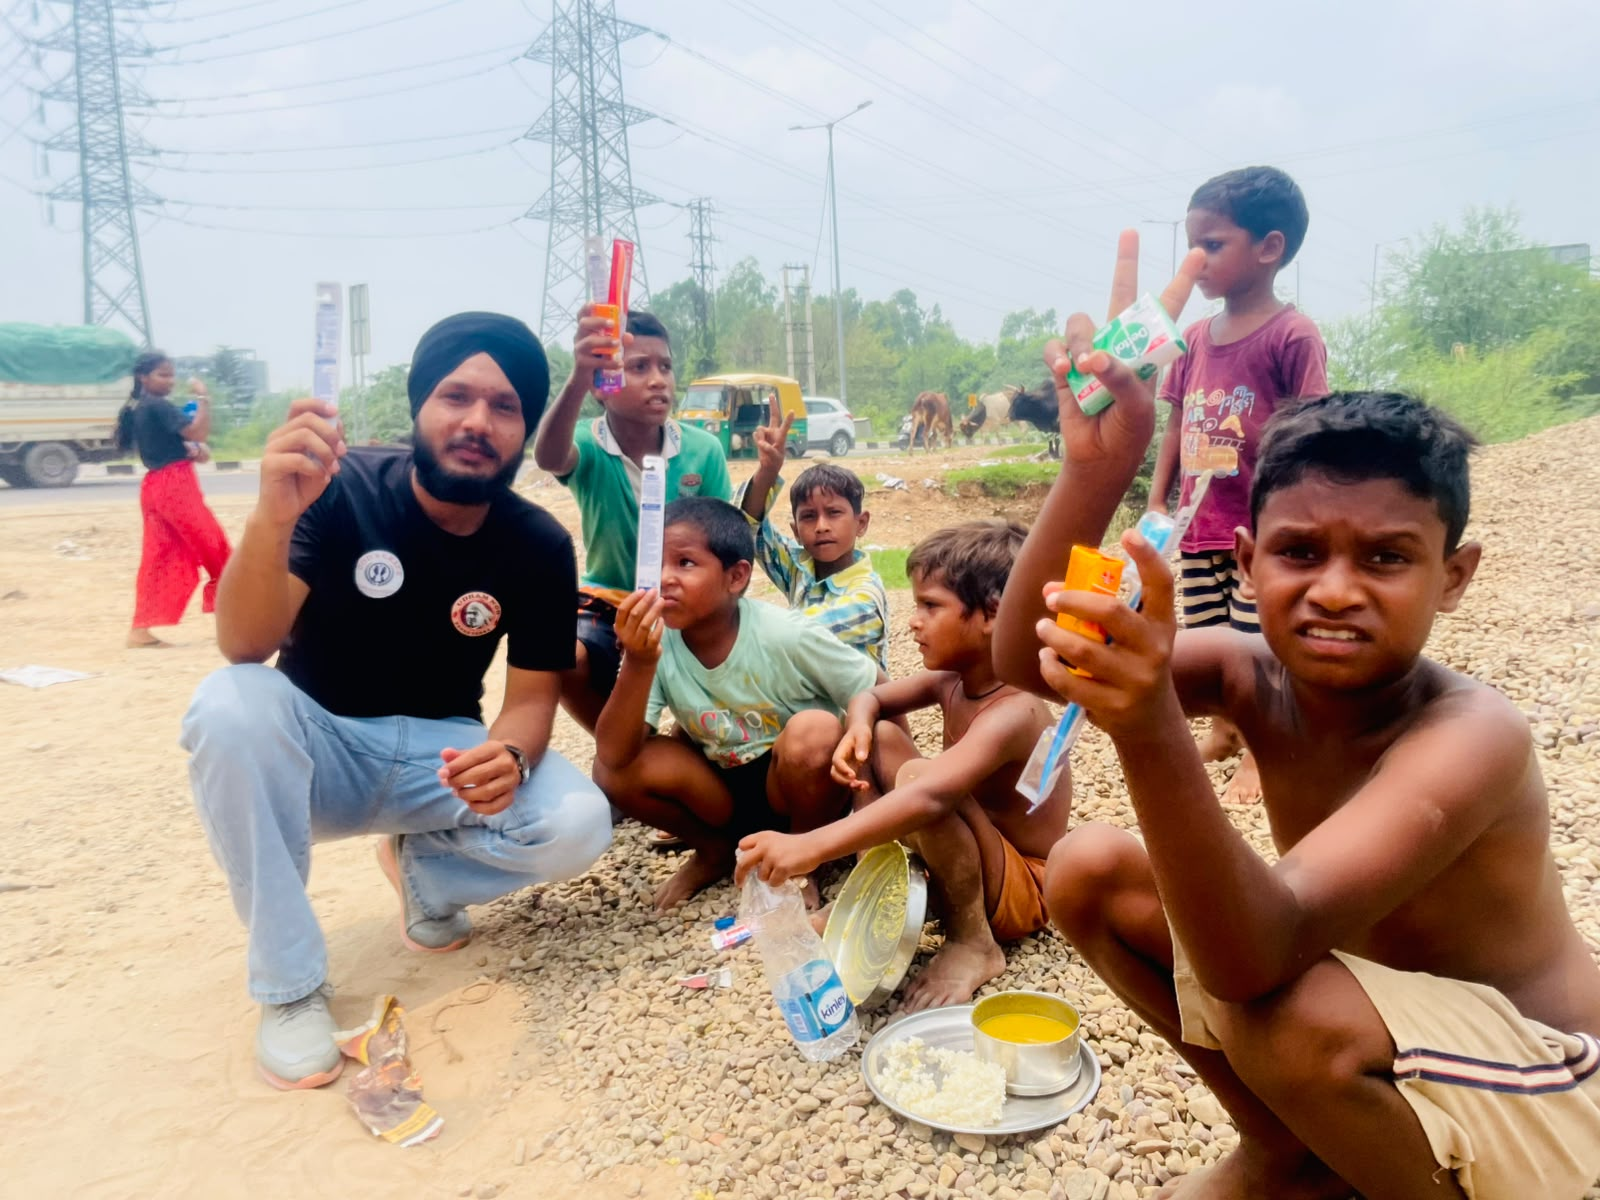
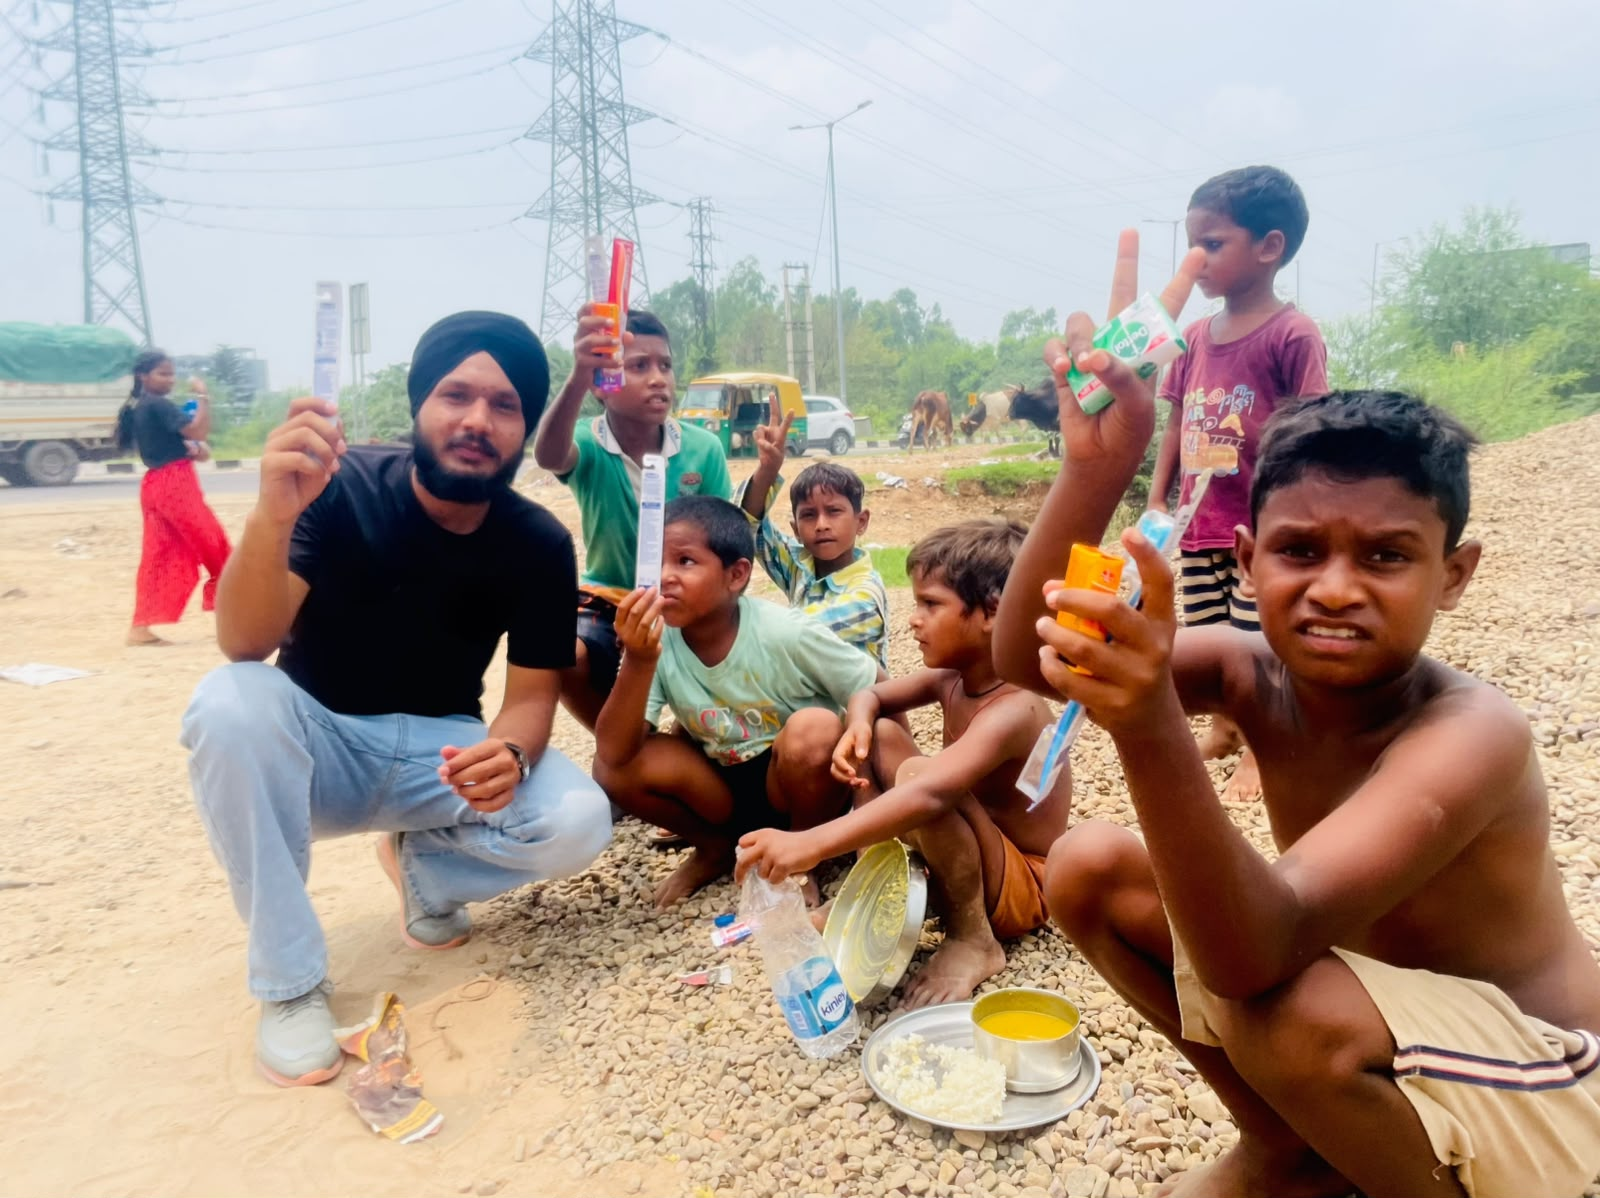
feat: update campaign images and remove Testimonials component

diff --git a/src/content/focus-areas.ts b/src/content/focus-areas.ts
@@ -11,7 +11,7 @@ export const focusAreas: FocusArea[] = [
     fullDescription:
       "Education is the most sustainable vehicle for breaking generational cycles of inequality. Waheguru Foundation supports underserved community schools through infrastructure rehabilitation, teacher honorariums, digital smart classrooms, and merit-cum-need scholarships for female students.",
     iconName: "GraduationCap",
-    image: "https://images.unsplash.com/photo-1509062522246-3755977927d7?auto=format&fit=crop&w=1200&q=80",
+    image: "/images/seva/students.png",
     stats: [
       { label: "Students Supported", value: "14,500+" },
       { label: "Community Schools", value: "48" },
@@ -33,7 +33,7 @@ export const focusAreas: FocusArea[] = [
     fullDescription:
       "Affordable quality healthcare is a fundamental human right. Our mobile healthcare initiative brings qualified medical teams, diagnostic equipment, and free essential medicines straight to rural doorsteps where tertiary healthcare facilities are days of travel away.",
     iconName: "Stethoscope",
-    image: "https://images.unsplash.com/photo-1584515979956-d9f6e5d09982?auto=format&fit=crop&w=1200&q=80",
+    image: "/images/seva/blood-camp.png",
     stats: [
       { label: "Patients Treated", value: "280,000+" },
       { label: "Mobile Clinics Active", value: "14" },
@@ -55,7 +55,7 @@ export const focusAreas: FocusArea[] = [
     fullDescription:
       "Rooted in the eternal concept of Pangat (eating together as equals without distinction of status or creed), our community kitchens prepare and serve over 10,000 freshly cooked, nutritionally balanced vegetarian meals every single day to construction workers, hospital attendees, and street dwellers.",
     iconName: "Utensils",
-    image: "https://images.unsplash.com/photo-1593113598332-cd288d649433?auto=format&fit=crop&w=1200&q=80",
+    image: "/images/seva/langar-seva.png",
     stats: [
       { label: "Total Meals Served", value: "3.8 Million+" },
       { label: "Daily Thalis Prepared", value: "12,000+" },
@@ -77,7 +77,7 @@ export const focusAreas: FocusArea[] = [
     fullDescription:
       "Pawan Guru, Pani Pita, Mata Dharat Mahat (Air is the Teacher, Water the Father, Earth the Great Mother). Inspired by these reverence-filled teachings, we restore degraded village ecosystems with clean solar water purification kiosks, rainwater percolation tanks, and Miyawaki indigenous urban mini-forests.",
     iconName: "Trees",
-    image: "https://images.unsplash.com/photo-1541888946425-d0fbb1861593?auto=format&fit=crop&w=1200&q=80",
+    image: "/images/seva/slum-langar-sanitation.png",
     stats: [
       { label: "Liters Filtered Daily", value: "120,000" },
       { label: "Native Trees Planted", value: "85,000+" },
@@ -99,7 +99,7 @@ export const focusAreas: FocusArea[] = [
     fullDescription:
       "When unforeseen disasters strike, time is of the essence. Waheguru Foundation maintains pre-staged emergency relief stocks of dry rations, water purification sachets, waterproof family tents, and medical emergency kits, with trained volunteer response units ready for 24-hour rapid mobilization.",
     iconName: "ShieldAlert",
-    image: "https://images.unsplash.com/photo-1469571486292-0ba58a3f068b?auto=format&fit=crop&w=1200&q=80",
+    image: "/images/seva/roadside-rescue.png",
     stats: [
       { label: "Disaster Responses", value: "32 Deployments" },
       { label: "Ration Kits Dispatched", value: "160,000+" },

diff --git a/src/app/(marketing)/campaigns/[slug]/page.tsx b/src/app/(marketing)/campaigns/[slug]/page.tsx
@@ -177,47 +177,7 @@ export default async function CampaignDetailPage({ params }: CampaignDetailPageP
             {/* Right Sticky Donate Box (4 cols) */}
             <div className="lg:col-span-4 lg:sticky lg:top-24 space-y-6">
               <div className="rounded-2xl bg-white border-2 border-[var(--gold-500)]/40 p-6 sm:p-8 shadow-xl space-y-6">
-                <div>
-                  <div className="flex items-baseline justify-between mb-2">
-                    <span className="font-serif text-2xl sm:text-3xl font-extrabold text-[var(--navy-900)]">
-                      {formatCurrency(campaign.raised)}
-                    </span>
-                    <span className="text-xs text-[var(--text-muted)]">
-                      Goal: {formatCurrency(campaign.goal)}
-                    </span>
-                  </div>
-
-                  <Progress value={campaign.raised} max={campaign.goal} className="h-3" />
-
-                  <div className="flex items-center justify-between text-xs text-[var(--text-muted)] mt-2">
-                    <span className="flex items-center gap-1 font-medium">
-                      <Users className="w-3.5 h-3.5 text-[var(--navy-600)]" />
-                      <span>{campaign.donorsCount} Donors</span>
-                    </span>
-                    <span className="font-bold text-[var(--gold-600)]">
-                      {percentage}% Raised
-                    </span>
-                  </div>
-                </div>
-
-                {/* Suggested Fast Donation Amounts */}
-                <div className="space-y-2">
-                  <label className="text-xs font-bold text-[var(--navy-900)] uppercase tracking-wider block">
-                    Choose Amount to Donate:
-                  </label>
-                  <div className="grid grid-cols-2 gap-2">
-                    {(campaign.suggestedAmounts || [500, 1500, 3000, 7500]).map((amt) => (
-                      <Link
-                        key={amt}
-                        href={`/donate?campaign=${campaign.slug}&amount=${amt}`}
-                        className="py-2.5 px-3 rounded-xl border border-[var(--border)] bg-[var(--surface)] text-center text-sm font-bold text-[var(--navy-900)] hover:border-[var(--gold-500)] hover:bg-[var(--gold-100)] transition-colors"
-                      >
-                        {formatCurrency(amt)}
-                      </Link>
-                    ))}
-                  </div>
-                </div>
-
+                
                 {/* Primary Donate Button */}
                 <Button asChild variant="donate" size="lg" className="w-full text-base h-13 shadow-md">
                   <Link href={`/donate?campaign=${campaign.slug}`}>

diff --git a/src/content/campaigns.ts b/src/content/campaigns.ts
@@ -33,8 +33,8 @@ export const campaigns: Campaign[] = [
       },
     ],
     gallery: [
-      "https://images.unsplash.com/photo-1593113598332-cd288d649433?auto=format&fit=crop&w=800&q=80",
-      "https://images.unsplash.com/photo-1488521787991-ed7bbaae773c?auto=format&fit=crop&w=800&q=80",
+      "/images/seva/langar-seva.png",
+      "/images/seva/slum-langar-sanitation.png",
     ],
   },
   {
@@ -49,7 +49,7 @@ export const campaigns: Campaign[] = [
     goal: 3500000,
     raised: 2890000,
     donorsCount: 1680,
-    image: "https://images.unsplash.com/photo-1509062522246-3755977927d7?auto=format&fit=crop&w=1200&q=80",
+    image: "/images/seva/students.png",
     status: "active",
     urgencyBadge: "Back to School",
     isFeatured: true,
@@ -75,7 +75,7 @@ export const campaigns: Campaign[] = [
     goal: 4200000,
     raised: 3100000,
     donorsCount: 1940,
-    image: "https://images.unsplash.com/photo-1584515979956-d9f6e5d09982?auto=format&fit=crop&w=1200&q=80",
+    image: "/images/seva/blood-camp.png",
     status: "active",
     taxBenefits: true,
     suggestedAmounts: [1000, 2500, 5000, 10000],
@@ -99,7 +99,7 @@ export const campaigns: Campaign[] = [
     goal: 2800000,
     raised: 2150000,
     donorsCount: 1120,
-    image: "https://images.unsplash.com/photo-1541888946425-d0fbb1861593?auto=format&fit=crop&w=1200&q=80",
+    image: "/images/seva/slum-langar-sanitation.png",
     status: "active",
     taxBenefits: true,
     suggestedAmounts: [1000, 2500, 6000, 12000],
@@ -116,7 +116,7 @@ export const campaigns: Campaign[] = [
     goal: 1800000,
     raised: 1540000,
     donorsCount: 980,
-    image: "https://images.unsplash.com/photo-1469571486292-0ba58a3f068b?auto=format&fit=crop&w=1200&q=80",
+    image: "/images/seva/roadside-rescue.png",
     status: "urgent",
     urgencyBadge: "Winter Drive",
     taxBenefits: true,
@@ -134,7 +134,7 @@ export const campaigns: Campaign[] = [
     goal: 2200000,
     raised: 1980000,
     donorsCount: 890,
-    image: "https://images.unsplash.com/photo-1534447677768-be436bb09401?auto=format&fit=crop&w=1200&q=80",
+    image: "/images/seva/skill-development.png",
     status: "active",
     taxBenefits: true,
     suggestedAmounts: [800, 2400, 4800, 12000],

diff --git a/src/lib/rate-limit.ts b/src/lib/rate-limit.ts
@@ -1,8 +1,3 @@
-/**
- * Lightweight sliding-window in-memory rate limiter with fallback.
- * Can be swapped with Upstash Redis in serverless multi-region deployments.
- */
-
 interface RateLimitStore {
   count: number;
   resetTime: number;
@@ -11,8 +6,8 @@ interface RateLimitStore {
 const memoryStore = new Map<string, RateLimitStore>();
 
 export interface RateLimitOptions {
-  limit?: number; // max requests
-  windowMs?: number; // window duration in milliseconds
+  limit?: number;
+  windowMs?: number;
 }
 
 export function rateLimit(
@@ -20,7 +15,7 @@ export function rateLimit(
   options: RateLimitOptions = {}
 ): { success: boolean; remaining: number; reset: number } {
   const limit = options.limit ?? 10;
-  const windowMs = options.windowMs ?? 60 * 1000; // 1 minute
+  const windowMs = options.windowMs ?? 60 * 1000;
   const now = Date.now();
 
   const record = memoryStore.get(identifier);

diff --git a/src/app/(marketing)/page.tsx b/src/app/(marketing)/page.tsx
@@ -9,7 +9,6 @@ import {
   AdvisoryBoard,
   HowYouCanHelp,
   ProcessSteps,
-  Testimonials,
   GalleryGrid,
   StoriesGrid,
   FAQ,
@@ -25,7 +24,6 @@ const SECTION_COMPONENTS: Partial<Record<HomeSectionKey, React.ComponentType>> =
   advisoryBoard: AdvisoryBoard,
   howYouCanHelp: HowYouCanHelp,
   howWeWork: ProcessSteps,
-  testimonials: Testimonials,
   galleryPreview: GalleryGrid,
   latestStories: StoriesGrid,
   faq: FAQ,

diff --git a/src/app/api/contact/route.ts b/src/app/api/contact/route.ts
@@ -28,7 +28,6 @@ export async function POST(req: NextRequest) {
       return NextResponse.json({ message: "Invalid submission" }, { status: 400 });
     }
 
-    // TODO: Send notification email to contact@wahegurufoundation.org
     console.log(`[CONTACT_ENQUIRY] From: ${result.data.name} <${result.data.email}>, Subject: ${result.data.subject}`);
 
     return NextResponse.json({

diff --git a/src/components/sections/index.ts b/src/components/sections/index.ts
@@ -5,7 +5,6 @@ export * from "./FocusAreas";
 export * from "./AdvisoryBoard";
 export * from "./HowYouCanHelp";
 export * from "./ProcessSteps";
-export * from "./Testimonials";
 export * from "./GalleryGrid";
 export * from "./StoriesGrid";
 export * from "./FAQ";

diff --git a/src/content/home.ts b/src/content/home.ts
@@ -13,7 +13,6 @@ export const homeSectionsOrder: HomeSectionKey[] = [
   "advisoryBoard",
   "howYouCanHelp",
   "howWeWork",
-  "testimonials",
   "galleryPreview",
   "latestStories",
   "faq",

diff --git a/src/types/index.ts b/src/types/index.ts
@@ -117,7 +117,6 @@ export type HomeSectionKey =
   | "advisoryBoard"
   | "howYouCanHelp"
   | "howWeWork"
-  | "testimonials"
   | "galleryPreview"
   | "latestStories"
   | "faq"

diff --git a/src/features/donation/index.ts b/src/features/donation/index.ts
@@ -3,3 +3,4 @@ export * from "./AmountSelector";
 export * from "./DonationForm";
 export * from "./providers/types";
 export * from "./providers/factory";
+ 
